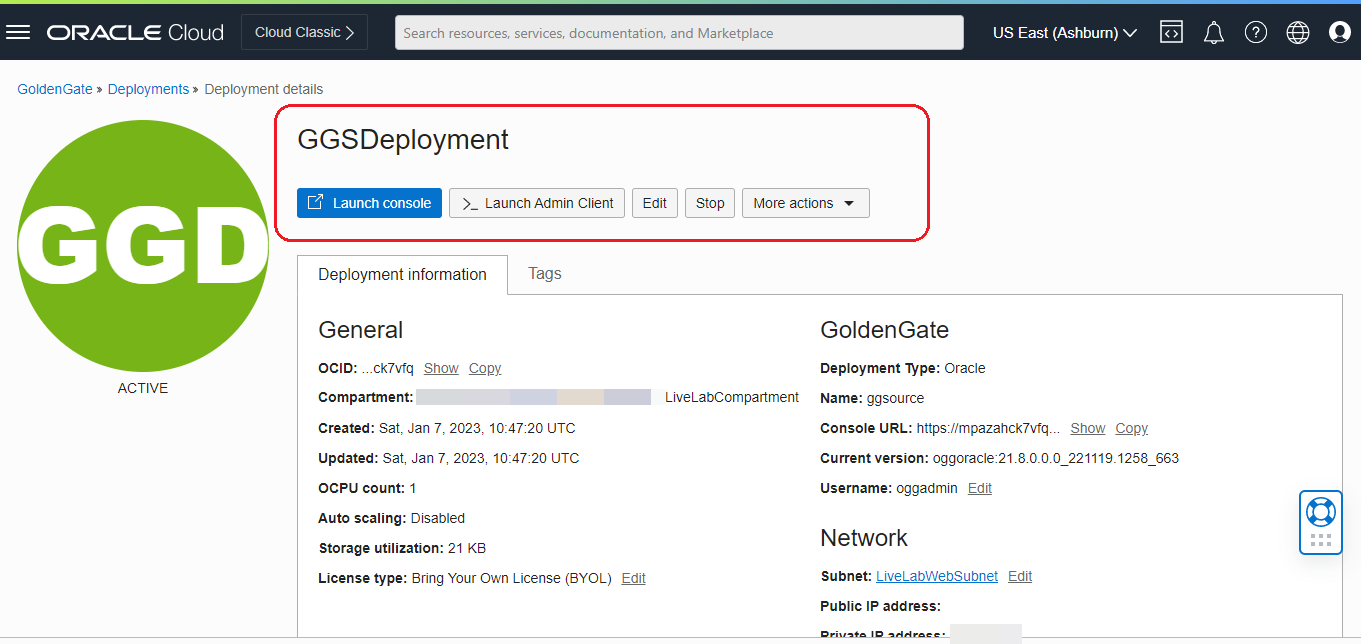
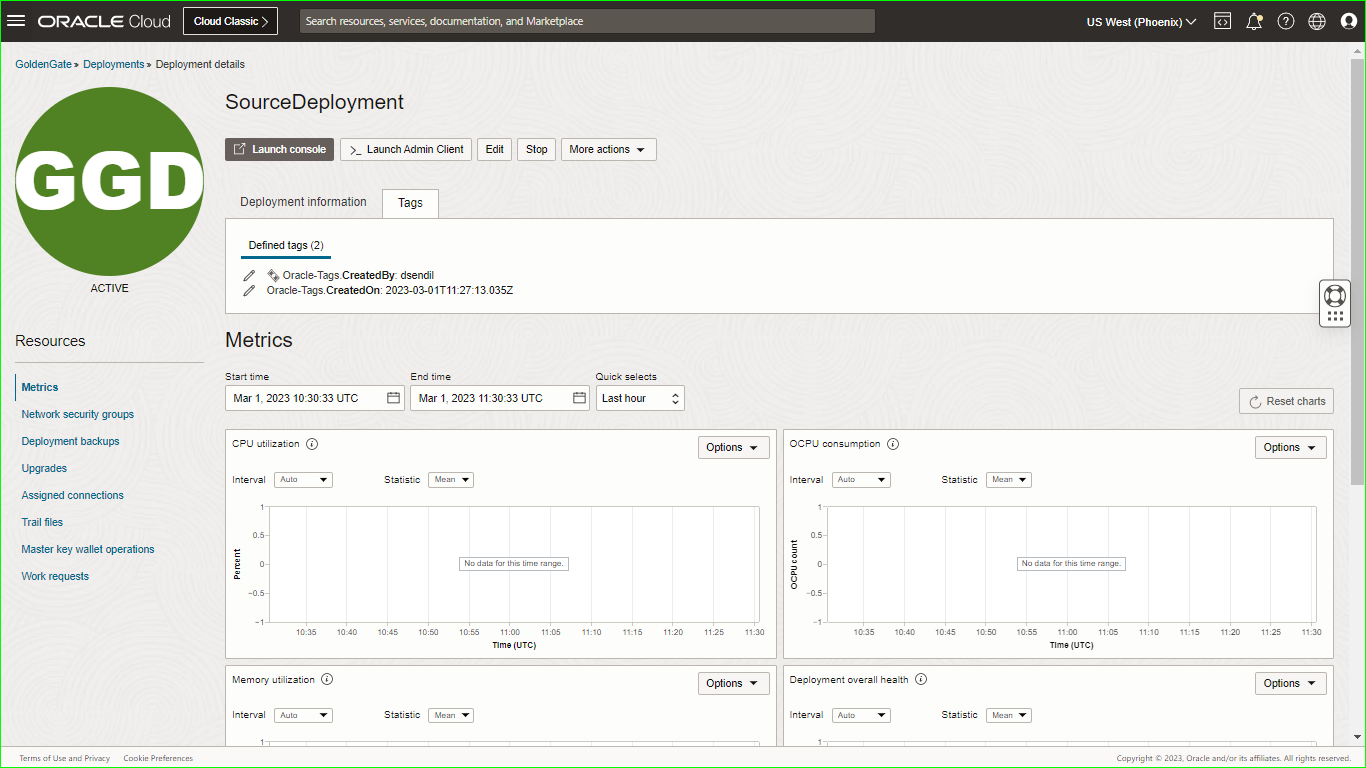
QA22032022

diff --git a/create/create.md b/create/create.md
@@ -2,19 +2,20 @@
 
 ## Introduction
 
-This lab walks you through the steps to create an Oracle Cloud Infrastructure (OCI) GoldenGate deployment.
+In this lab, you learn to create the source and target Oracle Cloud Infrastructure (OCI) GoldenGate deployments.
 
 Estimated Time: 5 minutes
 
-### About Oracle Cloud Infrastructure GoldenGate Deployments
+### About OCI GoldenGate deployments
 
-Oracle Cloud Infrastructure GoldenGate deployment manages the resources it requires to function. The GoldenGate deployment also lets you access the GoldenGate deployment console, where you can access the OCI GoldenGate deployment console to create and manage processes such as Extracts and Replicats.
+OCI GoldenGate deployments contain and manage the resources it requires to function. The GoldenGate deployment also lets you access the GoldenGate deployment console, where you can access the OCI GoldenGate deployment console to create and manage processes such as Extracts and Replicats.
 
 ### Objectives
 
 In this lab, you will:
 * Locate Oracle Cloud Infrastructure GoldenGate in the Console
-* Create an OCI GoldenGate deployment
+* Create the source deployment
+* Create the target deployment
 * Review the OCI GoldenGate deployment details
 * Access the OCI GoldenGate deployment console
 
@@ -24,31 +25,31 @@ This lab assumes that you completed all preceding labs.
 
 ## Task 1: Create the source deployment
 
-1.  Open the **Navigation Menu**, navigate to **Oracle Database**, and select **GoldenGate**.
+1.  Open the **Navigation Menu**, navigate to **Oracle Database**, and then select **GoldenGate**.
 
     ![GoldenGate in the Oracle Cloud navigation menu](images/database-goldengate.png " ")
 
-2.  On the GoldenGate **Overview** page, click **Create Deployment**.
+2.  On the GoldenGate **Overview** page, click **Create deployment**.
 
     ![Deployments page](images/create-deployment-select.png "")
 3.  You may need to select a compartment. Under List Scope, from the Compartment dropdown, expand the root compartment, and then select the compartment **LiveLabCompartment**.
 
-4.  In the Create Deployment panel, enter **GGSDeployment** for Name.
+4.  In the Create Deployment panel, enter **SourceDeployment** for Name.
 
-5.  From the Compartment dropdown, select a compartment **LiveLabCompartment**.
+5.  From the Compartment dropdown, select **LiveLabCompartment**.
 
 6.  For OCPU Count, enter **1**.
 
-7.  For Subnet, select a subnet. If you're using the workshop environment, select the subnet as  **LiveLabWebSubnet**.
+7.  For Subnet, select a subnet. If you're using the workshop environment, select **LiveLabWebSubnet**.
 
 8.  For License type, select **Bring Your Own License (BYOL)**.
 
-9. Click **Show Advanced Options**, and then select **Create Public Endpoint**.
+9. Click **Show advanced Options**, and then select **Create public endpoint**.
 
     ![Completed Create GoldenGate Deployment fields](images/create-deployment-general-info.png " ")
 
 10. Click **Next**.
-11. Select a technology such as **Oracle Database**.
+11. For Select a technology, select **Oracle Database**.
 
 11. For GoldenGate Instance Name, enter **ggsource**.
 
@@ -56,15 +57,13 @@ This lab assumes that you completed all preceding labs.
 
 13. For Administrator Password, enter a password. Take note of this password.
 
->**Note:** This password needs to match password of a database user that we will use later. In order to make sure the password works for both, we suggest you enter a password containing only upper case letters, lower case letters, numbers, and underscores. If you are using the green button (run on LiveLabs tenancy), you can use your database admin password given to you on the reservation page.
+    > **Note:** *For the purposes of this LiveLab, you use the same passwords for the oggadmin user and the database user. To ensure the password works for both users, enter a password containing only upper case letters, lower case letters, numbers, and underscores. If using the green button version of this lab (running on LiveLabs sandbox), you can use the database admin password on the reservation page*.
 
 14. Click **Create**.
 
     ![Completed GoldenGate details](images/create-deployment-completed.png " ")
 
-> **Note:** *You're brought to the Deployment Details page. It takes a few minutes for the deployment to be created. Its status will change from CREATING to ACTIVE when it is ready for you to use.*
-
-15. Deployment creation completed
+    > **Note:** *You're brought to the Deployment Details page. It takes a few minutes for the deployment to be created. Its status will change from CREATING to ACTIVE when it is ready for you to use.*
 
     ![Deployment creation completed](images/deployment-active-status.png " ")
 
@@ -73,50 +72,50 @@ This lab assumes that you completed all preceding labs.
 1. Go back to the GoldenGate **Overview** page, click **Create Deployment**.
 
     ![Deployments page](images/create-deployment-select.png "")
-3.  You may need to select a compartment. Under List Scope, from the Compartment dropdown, expand the root compartment, and then select the compartment **LiveLabCompartment**.
 
-4.  In the Create Deployment panel, enter **OCI GoldenGate Big Data** for Name.
+2.  In the Create Deployment panel, enter **OCI GoldenGate Big Data** for Name.
 
-5.  From the Compartment dropdown, select a compartment.
+3.  From the Compartment dropdown, select **LiveLabCompartment**.
 
-6.  For OCPU Count, enter **1**.
+4.  For OCPU Count, enter **1**.
 
-7.  For Subnet, select a subnet. If you're using the workshop environment, select **LiveLabWebSubnet**.
+5.  For Subnet, select a subnet. If you're using the workshop environment, select **LiveLabWebSubnet**.
 
-8.  For License type, select **License included**.
-9.  Click **Show Advanced Options**, and then select **Create Public Endpoint**.
+6.  For License type, select **License included**.
+
+7.  Click **Show advanced options**, and then select **Create public endpoint**.
 
 
-9. Click **Next**.
+8. Click **Next**.
     ![Completed GoldenGate details](images/create-deployment-click.png " ")
 
-10. Select Technology as  **Big Data**.
+9. For Select a technology, select **Big Data**.
 
-11. For GoldenGate Instance Name, enter **OCIGGBigData**.
+10. For GoldenGate Instance Name, enter **OCIGGBigData**.
 
-12. For Administrator Username, enter **oggadmin**.
+11. For Administrator Username, enter **oggadmin**.
 
-13. For Administrator Password, enter a password. Take note of this password.
+12. For Administrator Password, enter a password. Take note of this password.
 
->**Note:** This password needs to match password of a database user that we will use later. In order to make sure the password works for both, we suggest you enter a password containing only upper case letters, lower case letters, numbers, and underscores. If you are using the green button (run on LiveLabs tenancy), you can use your database admin password given to you on the reservation page.
+    > **Note:** *For the purposes of this LiveLab, you use the same passwords for the oggadmin user and the database user. To ensure the password works for both users, enter a password containing only upper case letters, lower case letters, numbers, and underscores. If using the green button version of this lab (running on LiveLabs sandbox), you can use the database admin password on the reservation page.*
 
-14. Click **Create**.
+13. Click **Create**.
 
-    ![Completed GoldenGate details](images/create-deployment-create.png " ")
+    ![Completed GoldenGate details](images/ggbd-deployment-create.png " ")
 
-> **Note:** *You're brought to the Deployment Details page. It takes a few minutes for the deployment to be created. Its status will change from CREATING to ACTIVE when it is ready for you to use.*
+    >**Note:** *You're brought to the Deployment Details page. It takes a few minutes for the deployment to be created. Its status will change from CREATING to ACTIVE when it is ready for you to use.*
 
-15. Deployment creation completed
 
     ![Deployment creation completed](images/deployment-lanch-kafka.png " ")
+
 You may now **proceed to the next lab**.
 
 ## Learn More
 
-* [Managing Deployments](https://docs.oracle.com/en/cloud/paas/goldengate-service/using/deployments.html)
+* [Managing deployments](https://docs.oracle.com/en/cloud/paas/goldengate-service/using/deployments.html)
 
 ## Acknowledgements
-* **Author** - Jenny Chan, Consulting User Assistance Developer, Database User Assistance
-* **Contributors** -  Denis Gray, Database Product Management; Madhu Kumar S, AppDev and Integration
-* **Last Updated By/Date** - 
+* **Author** - Madhu Kumar S, Senior Solution Engineer, AppDev and Integration
+* **Contributors** -  Denis Gray, Database Product Management; Jenny Chan, Consulting User Assistance Developer, Database User Assistance
+* **Last Updated By/Date** - Madhu Kumar S, Senior Solution Engineer, AppDev and Integration
 

diff --git a/connections/connections.md b/connections/connections.md
@@ -2,13 +2,13 @@
 
 ## Introduction
 
-This lab walks you through the steps to create a connection to ***ATP*** and ***Kafka*** from an Oracle Cloud Infrastructure (OCI) GoldenGate deployment.
+In this lab, you learn to create the Autonomous Transaction Processing (ATP) and Apache Kafka connections and then assign them to OCI GoldenGate deployments.
 
-Estimated Time: 5 minutes
+Estimated time: 5 minutes
 
 ### About Creating the ATP and Kafka Connection
 
-You can create and save the database login credentials, Kafka connectivity, and assign the global credentials to appropriate deployments.
+Connections store the networking connectivity details for source and target technologies for OCI GoldenGate. Connections must be assigned to deployments to be used in replication processes.
 
 ### Objectives
 
@@ -22,7 +22,7 @@ In this lab, you will:
 
 This lab assumes that you completed all preceding labs.
 
-## Task 1: Create a connection to ATP
+## Task 1: Create the ATP connection
 
 Follow these steps to create a connection to the source Autonomous Transaction Processing (ATP) database.
 
@@ -32,21 +32,21 @@ Follow these steps to create a connection to the source Autonomous Transaction P
 
 2.  On the GoldenGate **Connections** page, click **Create connection**.
 
-    ![GoldenGate create-connection page](images/connection-select.PNG " ")
+    ![GoldenGate create-connection page](images/connection-select.png " ")
 
 3.  In the Create connection panel, enter **ATP_Source** for Name.
 
-4.  From the Compartment dropdown, select a compartment. For example, **LiveLabCompartment**.
+4.  From the Compartment dropdown, select **LiveLabCompartment**.
 
-5.  For Type, select **OCI Autonomous Database** and click **Next**.
+5.  For Type, select **Oracle Autonomous Database** and click **Next**.
     ![GoldenGate create connection creation page](images/oci-connection-choose.png " ")
 
-6.  For Database details, choose Select database, and then select the ATP database created in Lab 1. Enter ***ggadmin*** for Database username, and , ***Or4cl3--2022*** for password, and then click  **Create**.
+6.  For Database details, choose **Select database**, and then select the ATP database created in Lab 1. Enter ***ggadmin*** for Database username, and , ***Or4cl3--2022*** for password, and then click  **Create**.
     ![atp database connection created](images/create-atp-connection.png " ")
 
 
 
-## Task 2: Create a connection to Apache Kafka
+## Task 2: Create the Apache Kafka connection
 
 Follow the steps below to create a connection to the target  Apache Kafka.
 
@@ -56,7 +56,7 @@ Follow the steps below to create a connection to the target  Apache Kafka.
 
 2.  In the Create connection panel, enter **kafka** for Name.
 
-3.  From the Compartment dropdown, select a compartment. For example, **LiveLabCompartment**.
+3.  From the Compartment dropdown, select **LiveLabCompartment**.
 
 4.  For Type, select **Apache Kafka**, and then click **Next**.
     ![Connection type selected as Apache Kafka](images/kafka-connection-choose.png " ")
@@ -67,14 +67,16 @@ Follow the steps below to create a connection to the target  Apache Kafka.
     ![public IP of bootstrap server](images/bootstrap-server-details.png " ")
 7.  For Security protocol, select **Plaintext**, and then click **Create**.
 
-## Task 3: Assign Connections to Deployments
-1. On the Connections page, select  **ATP_Source**.
+## Task 3: Assign connections to deployments
+
+1. On the Connections page, select **ATP_Source**.
 
     ![assign-deployment-oracle](images/connection-page.png " ")
 
 2. On the Connection details page, under Resources, click **Assigned deployments**, and then click **Assign deployment**.
     ![assign-deployment-oracle](images/assign-deployment-oracle.PNG " ")
-3.	In the Assign deployment dialog, select **GGSDeployment** from the dropdown, and then click **Assign deployment**.
+
+3.	In the Assign deployment dialog, select **SourceDeployment** from the dropdown, and then click **Assign deployment**.
     ![deployment-oracle-select](images/deployment-oracle-select.png " ")
 
 4.	Repeat these steps to assign ***OCI GoldenGate Big Data*** to the Kafka connection.
@@ -86,9 +88,9 @@ You may now **proceed to the next lab**.
 
 ## Learn More
 
-* [Manage Deployment users](https://docs.oracle.com/en/cloud/paas/goldengate-service/using/manage-user-accounts.html#GUID-56E2E146-7713-4094-8BEC-7C138064EB21)
+* [Manage deployment users](https://docs.oracle.com/en/cloud/paas/goldengate-service/using/manage-user-accounts.html#GUID-56E2E146-7713-4094-8BEC-7C138064EB21)
 
 ## Acknowledgements
-* **Author** - Madhu Kumar S, Senior Solution Engineer, AppDev and Integration 
-* **Contributors** -  Deniz Sendil, Database Product Management
-* **Last Updated By/Date** - 
+* **Author** - Madhu Kumar S, Senior Solution Engineer, AppDev and Integration
+* **Contributors** -  Denis Gray, Database Product Management; Jenny Chan, Consulting User Assistance Developer, Database User Assistance
+* **Last Updated By/Date** - Madhu Kumar S, Senior Solution Engineer, AppDev and Integration

diff --git a/environment-setup/environment-setup.md b/environment-setup/environment-setup.md
@@ -2,25 +2,9 @@
 
 ## Introduction
 
-In this lab, you learn to set up your environment in Oracle Cloud Infrastructure using Cloud Shell. Cloud Shell is a web based terminal built into the Oracle Cloud console
+In this lab, you learn to set up your environment in Oracle Cloud Infrastructure using Cloud Shell. Cloud Shell is a web based terminal built into the Oracle Cloud console.
 
-This lab is very important and we will create following resources:
-
-- Virtual Cloud Network.
-- Source Oracle Autonomous Database.
-- Target Apache Kafka Node.
-- Create SSH keys in Cloud Shell.
-- Modify a terraform variables file to interactive with the script.
-- Set up your environment and create resources using the terraform script.
-
-
-**Make sure** you have the following compute quotas and resources available to use:
-
-1. ATP for Source database - 1 OCPU, 1 TB storage
-2. Virtual Machine for Apache Kafka - VM.Standard1.1
-
-
-Estimated Time: 20 minutes
+Estimated time: 20 minutes
 
 ### Objectives
 
@@ -31,17 +15,9 @@ In this first lab, we will prepare our work environment and create our lab resou
 -   Prepare our work environment and create our lab resources using a Terraform script.
 
 
-### Prerequisites
-
-* The following workshop requires an Oracle Public Cloud Account that will either be supplied by your instructor or can be obtained through **Getting Started** steps.
-* A Cloud tenancy is where you have the resources available to provision what is listed in the Architecture Overview.
-* Oracle Cloud Infrastructure supports the following browsers and versions: Google Chrome 69 or later, Safari 12.1 or later, and Firefox 62 or later.
-* Your cloud account user must have the required IAM (Identity and Access Management) policy or admin user.
-* Successfully logged in to your cloud tenancy, if not please [login](https://www.oracle.com/cloud/sign-in.html) into your cloud account.
-
 ## Task 1: Use Cloud Shell to clone the lab repository
 
-1. In the Oracle Cloud console global header, click Cloud Shell. Cloud Shell opens as a separate panel in the Oracle Cloud console, which you can expand to full screen.
+1. In the Oracle Cloud console global header, click **Cloud Shell**. Cloud Shell opens as a separate panel in the Oracle Cloud console, which you can expand to full screen.
 
   _**Note:** *It takes a few minutes for Cloud Shell to connect and load your session.*_
 
@@ -52,14 +28,17 @@ In this first lab, we will prepare our work environment and create our lab resou
 	```
 	<copy>
 	git clone https://github.com/smadhukumar/atp-to-kafka.git
-	cd atp-to-kafka
-	
-
 	</copy>
 	```
 
-	![Cloned directory in Cloud Shell Terminal.](images/git.png)
+3. Enter the following command to change directories:
 
+    ```
+	<copy>
+	cd atp-to-kafka
+	</copy>
+    ```
+    ![Cloned directory in Cloud Shell Terminal.](images/git.png)
 ## Task 2: Generate SSH keys
 
 1. In Cloud Shell, enter the following commands to add the execute permission to generate_pemkey.sh, and then run the file.
@@ -153,6 +132,6 @@ You may now **proceed to the next lab**.
 
 ## Acknowledgements
 
-* **Author** - Madhu Kumar S, Senior Solution Engineer, AppDev and Integration 
-* **Contributors** -  Deniz Sendil, Database Product Management;Divya Kashyap DevOps and Infra Cloud Engineer, Bangalore, NAC
-* **Last Updated By/Date** - 
+* **Author** - Madhu Kumar S, Senior Solution Engineer, AppDev and Integration
+* **Contributors** -  Denis Gray, Database Product Management; Jenny Chan, Consulting User Assistance Developer, Database User Assistance
+* **Last Updated By/Date** - Madhu Kumar S, Senior Solution Engineer, AppDev and Integration

diff --git a/introduction/introduction.md b/introduction/introduction.md
@@ -4,7 +4,7 @@
 
 Oracle GoldenGate, the industry-leading data replication, and integration software is now available as a fully-managed, cloud-native service on Oracle Cloud Infrastructure. This workshop guides you through how to use  OCI GoldenGate as the source deployment to extract data from Autonomous Transaction Processing (ATP) and deliver the data into a Kafka node running on an OCI Compute Instance. The Kafka node will be configurable through terraform and the advertised listener will automatically be assigned with the Public IP of the compute node. Kafka & Zookeeper services will be started with the terraform as well. Topics will be created by OCI GoldenGate automatically.
 
-Estimated Time: 60 minutes
+Estimated time: 60 minutes
 
 ### About Oracle Cloud Infrastructure GoldenGate
 
@@ -32,6 +32,6 @@ You may now **proceed to the next lab**.
 * [Take an interactive tour of OCI GoldenGate](https://apexapps.oracle.com/pls/apex/f?p=44785:112:0::::P112_CONTENT_ID:29986)
 
 ## Acknowledgements
-* **Author** - Madhu Kumar S, Senior Solution Engineer, AppDev and Integration 
-* **Contributors** -  Deniz Sendil, Database Product Management
-* **Last Updated By/Date** - 
+* **Author** - Madhu Kumar S, Senior Solution Engineer, AppDev and Integration
+* **Contributors** -  Denis Gray, Database Product Management; Jenny Chan, Consulting User Assistance Developer, Database User Assistance
+* **Last Updated By/Date** - Madhu Kumar S, Senior Solution Engineer, AppDev and Integration

diff --git a/replicat/replicat.md b/replicat/replicat.md
@@ -60,6 +60,6 @@ You may now **proceed to the next lab**.
 * [Creating a Replicat](https://docs.oracle.com/en/cloud/paas/goldengate-service/using/goldengate-deployment-console.html#GUID-063CCFD9-81E0-4FEC-AFCC-3C9D9D3B8953)
 
 ## Acknowledgements
-* **Author** - Madhu Kumar S, Senior Solution Engineer, AppDev and Integration 
-* **Contributors** -  Deniz Sendil, Database Product Management
-* **Last Updated By/Date** - 
+* **Author** - Madhu Kumar S, Senior Solution Engineer, AppDev and Integration
+* **Contributors** -  Denis Gray, Database Product Management; Jenny Chan, Consulting User Assistance Developer, Database User Assistance
+* **Last Updated By/Date** - Madhu Kumar S, Senior Solution Engineer, AppDev and Integration

diff --git a/path/path.md b/path/path.md
@@ -85,7 +85,6 @@ You may now **proceed to the next lab**.
 * [Managing Deployments](https://docs.oracle.com/en/cloud/paas/goldengate-service/using/deployments.html)
 
 ## Acknowledgements
-* **Author** - Madhu Kumar S, Senior Solution Engineer, AppDev and Integration 
-* **Contributors** -  Deniz Sendil, Database Product Management
-* **Last Updated By/Date** - 
-
+* **Author** - Madhu Kumar S, Senior Solution Engineer, AppDev and Integration
+* **Contributors** -  Denis Gray, Database Product Management; Jenny Chan, Consulting User Assistance Developer, Database User Assistance
+* **Last Updated By/Date** - Madhu Kumar S, Senior Solution Engineer, AppDev and Integration

diff --git a/extract/extract.md b/extract/extract.md
@@ -95,6 +95,6 @@ You may now **proceed to the next lab**.
 
 
 ## Acknowledgements
-* **Author** - Madhu Kumar S, Senior Solution Engineer, AppDev and Integration 
-* **Contributors** -  Deniz Sendil, Database Product Management
-* **Last Updated By/Date** - 
+* **Author** - Madhu Kumar S, Senior Solution Engineer, AppDev and Integration
+* **Contributors** -  Denis Gray, Database Product Management; Jenny Chan, Consulting User Assistance Developer, Database User Assistance
+* **Last Updated By/Date** - Madhu Kumar S, Senior Solution Engineer, AppDev and Integration

diff --git a/load/load.md b/load/load.md
@@ -145,5 +145,5 @@ This lab assumes that you completed all preceding labs, and your deployment is i
 
 ## Acknowledgements
 * **Author** - Madhu Kumar S, Senior Solution Engineer, AppDev and Integration
-* **Contributors** -  Deniz Sendil, Database Product Management
-* **Last Updated By/Date** - 
+* **Contributors** -  Denis Gray, Database Product Management; Jenny Chan, Consulting User Assistance Developer, Database User Assistance
+* **Last Updated By/Date** - Madhu Kumar S, Senior Solution Engineer, AppDev and Integration

diff --git a/target/target.md b/target/target.md
@@ -2,7 +2,7 @@
 
 ## Introduction
 
-This lab walks you through the steps to create an Oracle Cloud Infrastructure (OCI) GoldenGate deployment.
+In this lab, you learn to create the Autonomous Transaction Processing (ATP) and Apache Kafka connections and then assign them to OCI GoldenGate deployments.
 
 Estimated time: 5 minutes
 
